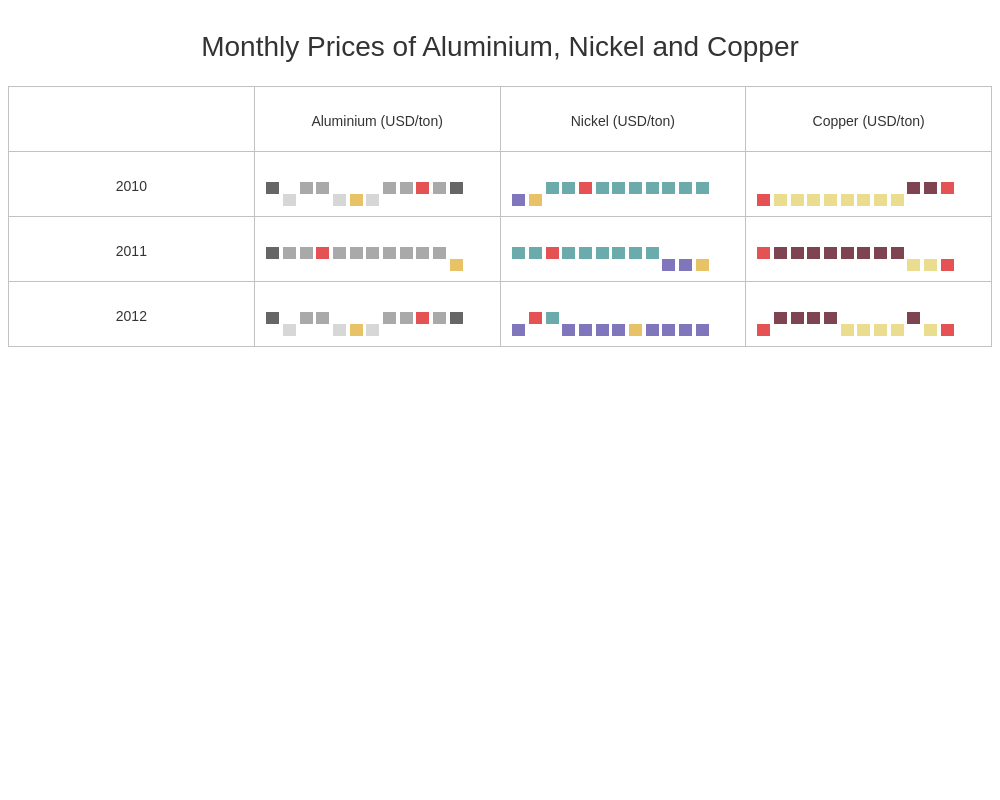
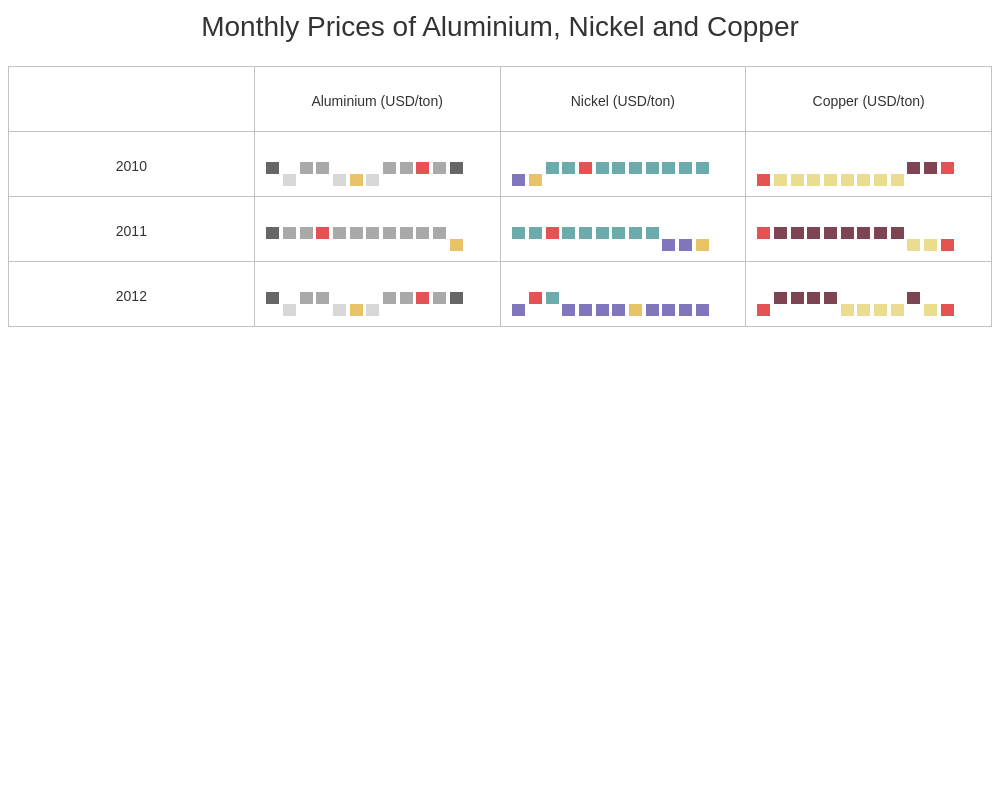
add margin-top: 0px property to charts-winlosssparklnes demos

diff --git a/JSDemos/Demos/Charts/WinlossSparklines/Vue/App.vue b/JSDemos/Demos/Charts/WinlossSparklines/Vue/App.vue
@@ -63,5 +63,6 @@ export default {
     font-size: 28px;
     text-align: center;
     margin-bottom: 20px;
+    margin-top: 0px;
 }
 </style>

diff --git a/JSDemos/Demos/Charts/WinlossSparklines/Angular/app/app.component.css b/JSDemos/Demos/Charts/WinlossSparklines/Angular/app/app.component.css
@@ -34,4 +34,5 @@
     font-size: 28px;
     text-align: center;
     margin-bottom: 20px;
+    margin-top: 0px;
 }

diff --git a/JSDemos/Demos/Charts/WinlossSparklines/AngularJS/styles.css b/JSDemos/Demos/Charts/WinlossSparklines/AngularJS/styles.css
@@ -40,4 +40,5 @@
     font-size: 28px;
     text-align: center;
     margin-bottom: 20px;
+    margin-top: 0px;
 }

diff --git a/JSDemos/Demos/Charts/WinlossSparklines/Knockout/styles.css b/JSDemos/Demos/Charts/WinlossSparklines/Knockout/styles.css
@@ -40,4 +40,5 @@
     font-size: 28px;
     text-align: center;
     margin-bottom: 20px;
+    margin-top: 0px;
 }

diff --git a/JSDemos/Demos/Charts/WinlossSparklines/React/styles.css b/JSDemos/Demos/Charts/WinlossSparklines/React/styles.css
@@ -39,4 +39,5 @@
     font-size: 28px;
     text-align: center;
     margin-bottom: 20px;
+    margin-top: 0px;
 }

diff --git a/JSDemos/Demos/Charts/WinlossSparklines/jQuery/styles.css b/JSDemos/Demos/Charts/WinlossSparklines/jQuery/styles.css
@@ -40,4 +40,5 @@
     font-size: 28px;
     text-align: center;
     margin-bottom: 20px;
+    margin-top: 0px;
 }

diff --git a/MVCDemos/Content/DemosStyles/Charts/WinlossSparklines.css b/MVCDemos/Content/DemosStyles/Charts/WinlossSparklines.css
@@ -40,4 +40,5 @@
     font-size: 28px;
     text-align: center;
     margin-bottom: 20px;
+    margin-top: 0px;
 }

diff --git a/NetCoreDemos/wwwroot/css/DemosStyles/Charts/WinlossSparklines.css b/NetCoreDemos/wwwroot/css/DemosStyles/Charts/WinlossSparklines.css
@@ -40,4 +40,5 @@
     font-size: 28px;
     text-align: center;
     margin-bottom: 20px;
+    margin-top: 0px;
 }
